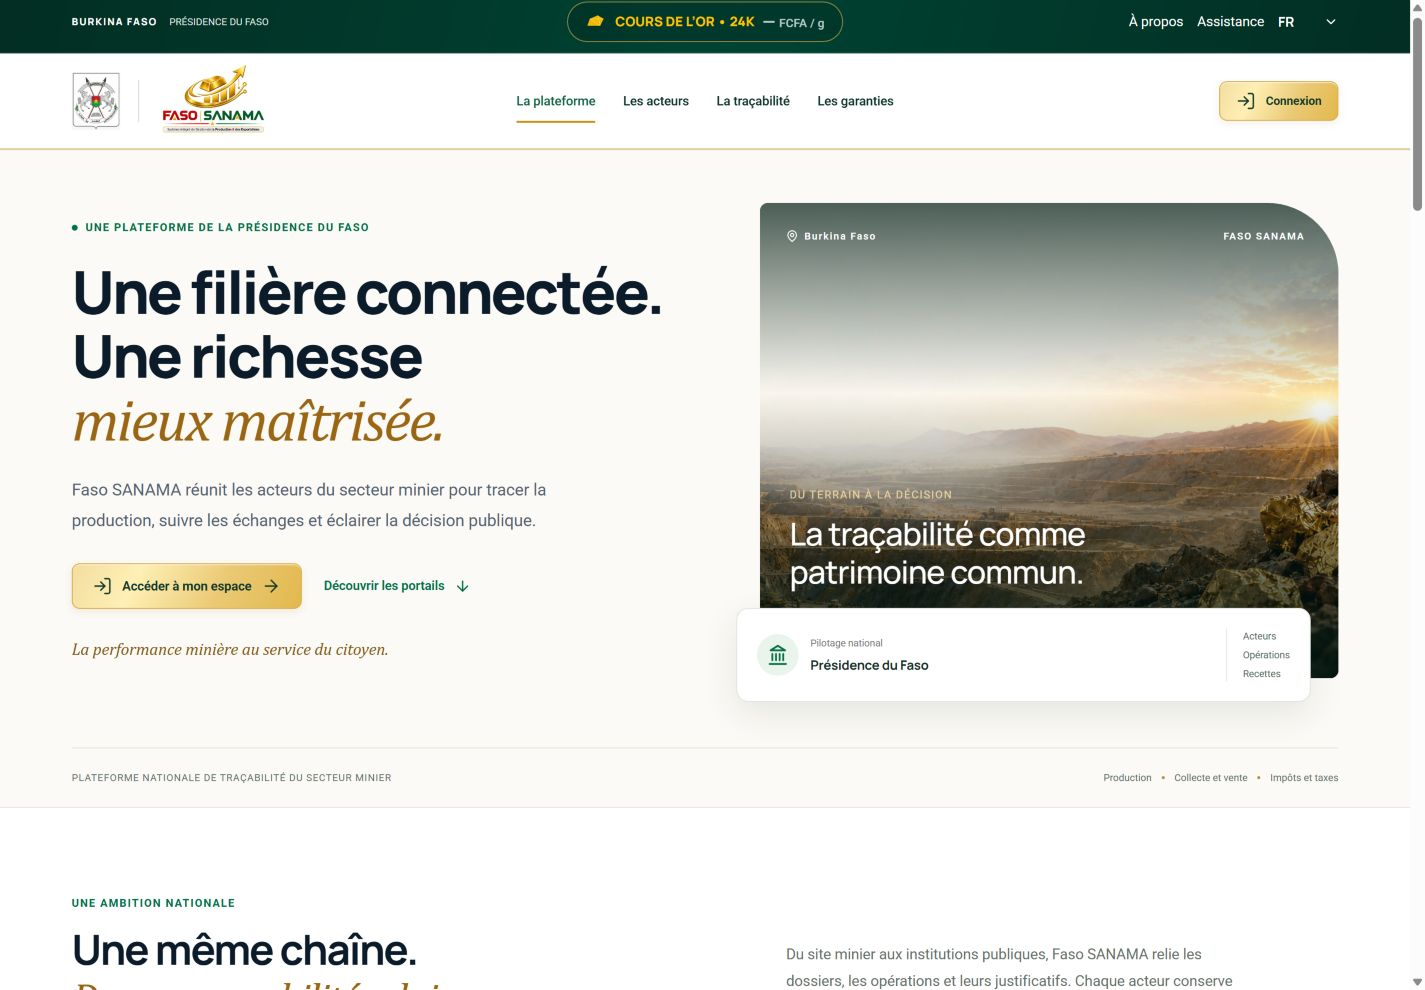
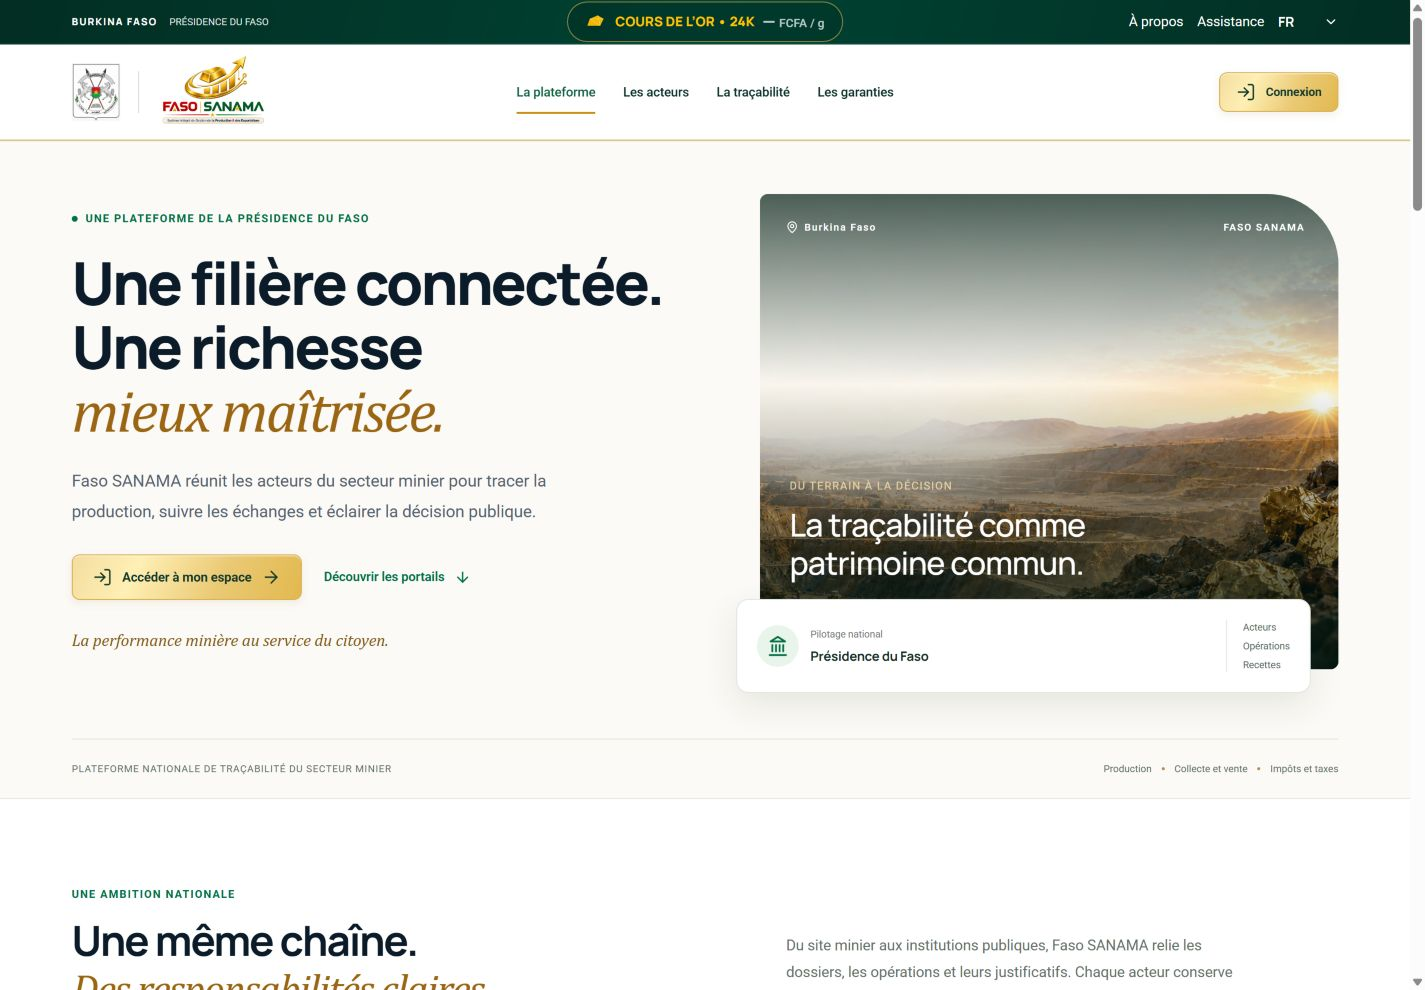
fix(public): keep mobile identity visible and reset home navigation

diff --git a/src/pages/public/faso-vitrine.css b/src/pages/public/faso-vitrine.css
@@ -9,11 +9,11 @@
   font-family: 'Faso Roboto', Arial, sans-serif; background: #fff;
 }
 .faso-public .public-shell { width: min(100% - 80px, 1280px); }
-.faso-public .institutional-bar { padding: 0; }
+.faso-public .institutional-bar { padding: 0; min-height: 38px; }
 .faso-public .institutional-bar__inner { min-height: 38px; }
 .faso-public .institutional-bar__identity { display: flex; }
 .faso-public .institutional-bar__identity img { display: none; }
-.faso-public .institutional-bar__copy { display: flex; flex-direction: row; gap: 12px; align-items: center; }
+.faso-public .institutional-bar__identity .institutional-bar__copy { display: flex; flex-direction: row; gap: 12px; align-items: center; }
 .faso-public .institutional-bar__copy strong { font-size: 10px; letter-spacing: .12em; }
 .faso-public .institutional-bar__copy small { display: block; font-size: 10px; }
 .faso-public .institutional-bar__ticker { font-size: 10px; gap: 8px; }
@@ -219,6 +219,7 @@
 }
 @media (max-width: 680px) {
   .faso-public .public-shell { width: calc(100% - 36px); }
+  .faso-public .institutional-bar { min-height: 32px; }
   .faso-public .institutional-bar__inner { min-height: 32px; }
   .faso-public .institutional-bar__copy small, .faso-public .institutional-bar__actions > a { display: none; }
   .faso-public .institutional-bar__copy strong { font-size: 9px; }

diff --git a/src/pages/public/PublicLayout.tsx b/src/pages/public/PublicLayout.tsx
@@ -33,7 +33,10 @@ function PublicLayoutInner() {
 
   useEffect(() => {
     setMenuOpen(false);
-    if (!location.hash) window.scrollTo({ top: 0, left: 0, behavior: 'instant' });
+    if (!location.hash) {
+      setActiveSection('platform');
+      window.scrollTo({ top: 0, left: 0, behavior: 'instant' });
+    }
   }, [location.pathname, location.hash, location.key]);
 
   useEffect(() => {
@@ -41,6 +44,7 @@ function PublicLayoutInner() {
     const updateScrollState = () => {
       const availableScroll = Math.max(document.documentElement.scrollHeight - window.innerHeight, 1);
       setCondensed(window.scrollY > 24);
+      if (window.scrollY <= 24) setActiveSection('platform');
       setScrollProgress(Math.min(100, Math.max(0, (window.scrollY / availableScroll) * 100)));
     };
     const onScroll = () => {
